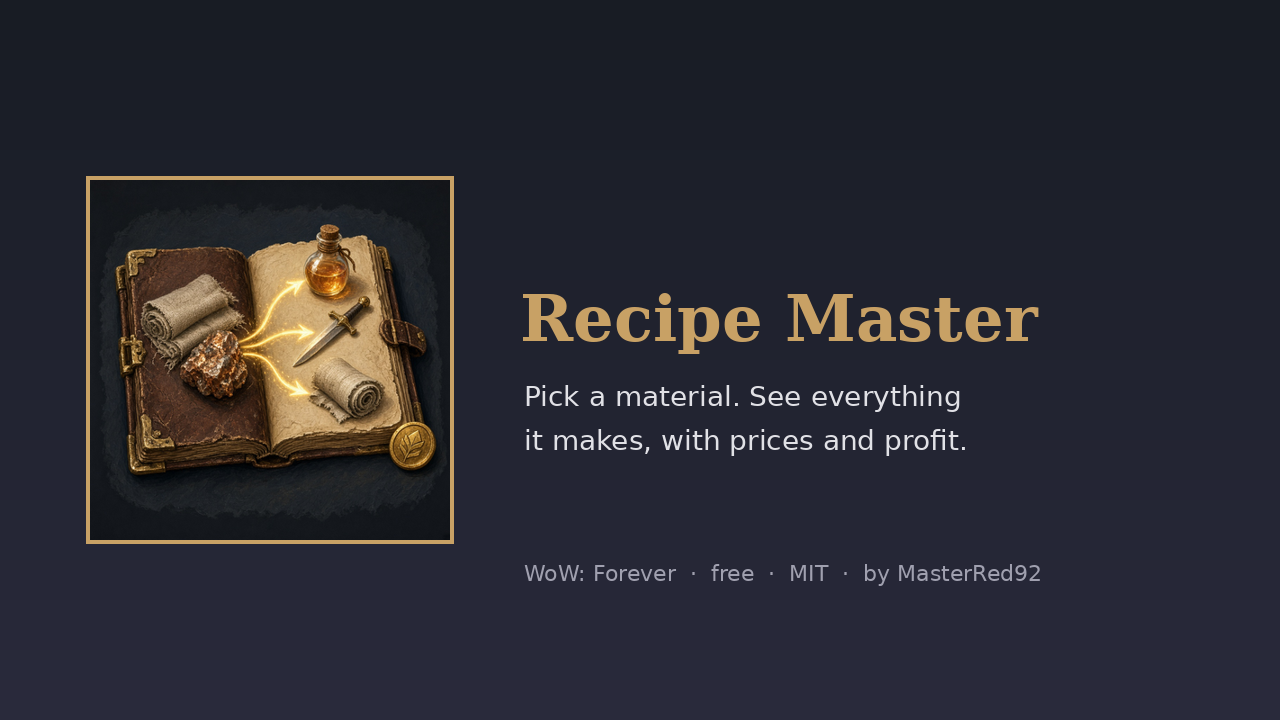
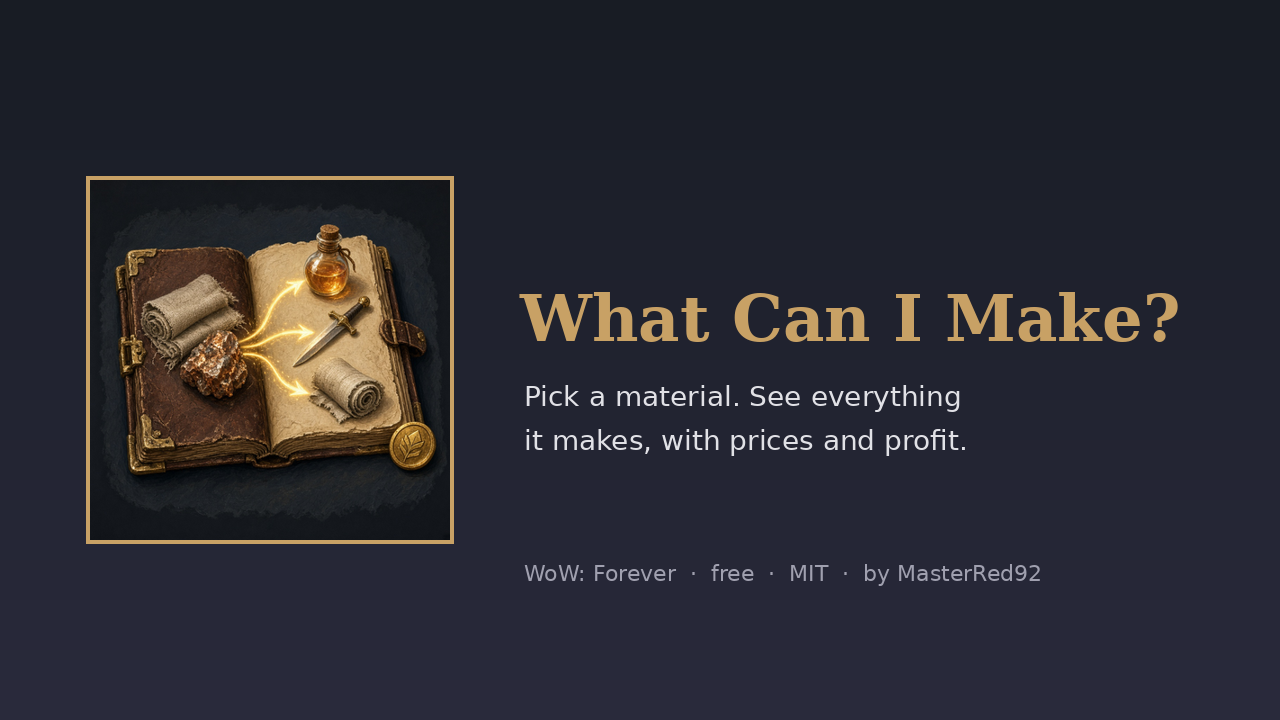
Rename to What Can I Make? (/wcim), fix the mockup

Changed region(s): [[0.4062, 0.3972, 0.9375, 0.4889]]

diff --git a/README.md b/README.md
@@ -1,23 +1,23 @@
-<p align="center"><img src="media/logo.png" alt="Recipe Master logo" width="200"></p>
+<p align="center"><img src="media/logo.png" alt="What Can I Make? logo" width="200"></p>
 
-# Recipe Master (WoW: Forever) v1.0.0
+# What Can I Make? (WoW: Forever) v1.0.0
 
-[![Tests](https://github.com/masterred92/RecipeMaster/actions/workflows/tests.yml/badge.svg)](https://github.com/masterred92/RecipeMaster/actions/workflows/tests.yml) [![WoW: Forever](https://img.shields.io/badge/WoW%3A%20Forever-Interface%2016001-c8a165)](https://github.com/masterred92/RecipeMaster/blob/main/RecipeMaster.toc) [![Release](https://img.shields.io/github/v/release/masterred92/RecipeMaster?label=release)](https://github.com/masterred92/RecipeMaster/releases) [![License: MIT](https://img.shields.io/github/license/masterred92/RecipeMaster)](https://github.com/masterred92/RecipeMaster/blob/main/LICENSE)
+[![Tests](https://github.com/masterred92/WhatCanIMake/actions/workflows/tests.yml/badge.svg)](https://github.com/masterred92/WhatCanIMake/actions/workflows/tests.yml) [![WoW: Forever](https://img.shields.io/badge/WoW%3A%20Forever-Interface%2016001-c8a165)](https://github.com/masterred92/WhatCanIMake/blob/main/WhatCanIMake.toc) [![Release](https://img.shields.io/github/v/release/masterred92/WhatCanIMake?label=release)](https://github.com/masterred92/WhatCanIMake/releases) [![License: MIT](https://img.shields.io/github/license/masterred92/WhatCanIMake)](https://github.com/masterred92/WhatCanIMake/blob/main/LICENSE)
 
-**"What can I make with this?"** Pick any material and Recipe Master shows every recipe that uses it, what each one is worth at the auction house right now, and where the result goes next.
+**"What can I make with this?"** Pick any material and What Can I Make? shows every recipe that uses it, what each one is worth at the auction house right now, and where the result goes next.
 
-- **Pick a material:** Alt-click any item (bags, chat links, loot, the AH), type `/rmaster linen cloth`, paste a link, or use the search box.
+- **Pick a material:** Alt-click any item (bags, chat links, loot, the AH), type `/wcim linen cloth`, paste a link, or use the search box.
 - **Every recipe that uses it:** profession, skill level (orange when it's above yours), the other reagents, and whether you know the recipe.
 - **Prices and profit:** the latest auction price for the material, every reagent and every crafted result, the reagent cost, and the estimated profit after the 5% AH cut. Each price says which addon it came from.
 - **Follow the chain:** click a result to see what *that* makes: Linen Cloth > Bolt of Linen Cloth > Linen Bag. Back walks the chain back. "Made from" flips to the recipes that create the item.
-- **Tooltip line:** "Recipe Master: used in N recipes", with its price and source.
+- **Tooltip line:** "Used in N recipes (What Can I Make?)", with its price and source.
 - **LDB launcher** for Titan Panel, ChocolateBar and other broker displays.
 
-<p align="center"><img src="media/screenshots/banner.png" alt="Recipe Master banner" width="560"></p>
-<p align="center"><img src="media/screenshots/mockup-guide.png" alt="Recipe Master preview" width="560"></p>
+<p align="center"><img src="media/screenshots/banner.png" alt="What Can I Make? banner" width="560"></p>
+<p align="center"><img src="media/screenshots/mockup-guide.png" alt="What Can I Make? preview" width="560"></p>
 
 ## Price sources
-Recipe Master reads prices from whichever price addon you already use. The first source in your order that has a price wins:
+What Can I Make? reads prices from whichever price addon you already use. The first source in your order that has a price wins:
 
 | Source | API used | Forever (16001) build |
 | --- | --- | --- |
@@ -25,36 +25,36 @@ Recipe Master reads prices from whichever price addon you already use. The first
 | [Auctionator](https://www.curseforge.com/wow/addons/auctionator) | `Auctionator.API.v1.GetAuctionPriceByItemID` | Yes (341, Oct 13 2026) |
 | [TradeSkillMaster](https://tradeskillmaster.com) | `TSM_API.GetCustomPriceValue("DBMarket")`, then `DBMinBuyout` | Not yet; works when it ships one |
 | [Auctioneer (Forever)](https://www.curseforge.com/wow/addons/auctioneer-forever) | `AucAdvanced.API.GetMarketValue` | Yes (4.0.0) |
-| Recipe Master scan | prices it sees in AH searches **you** do | Always on |
+| What Can I Make? scan | prices it sees in AH searches **you** do | Always on |
 
 No price addon? It still works: every AH search you make (browse or commodity) is cached. It never searches on its own.
-Change the order with `/rmaster prefer auctionator` or `/rmaster order tsm,auctionator,scan`; `/rmaster sources` shows the order and what's installed.
+Change the order with `/wcim prefer auctionator` or `/wcim order tsm,auctionator,scan`; `/wcim sources` shows the order and what's installed.
 
 ## Where the recipes come from
-Vanilla recipes (1,115 of them across Alchemy, Blacksmithing, Cooking, Enchanting items, Engineering, First Aid, Leatherworking, Mining and Tailoring) are bundled, generated by `tools/gen_data.py` from [nexus-devs/wow-classic-items](https://github.com/nexus-devs/wow-classic-items) (MIT, credit to its authors). On top of that, each time you open a profession window Recipe Master records what you know, and adds any recipe the bundled data doesn't have (new Forever recipes, enchants). It only stores names of items you could already see, so it doesn't spoil Forever's hidden items.
+Vanilla recipes (1,115 of them across Alchemy, Blacksmithing, Cooking, Enchanting items, Engineering, First Aid, Leatherworking, Mining and Tailoring) are bundled, generated by `tools/gen_data.py` from [nexus-devs/wow-classic-items](https://github.com/nexus-devs/wow-classic-items) (MIT, credit to its authors). On top of that, each time you open a profession window What Can I Make? records what you know, and adds any recipe the bundled data doesn't have (new Forever recipes, enchants). It only stores names of items you could already see, so it doesn't spoil Forever's hidden items.
 
 ## How it's different
-Reverse lookups exist ([Recipe Master by BrenoLudgero](https://www.curseforge.com/wow/addons/recipe-master), ATT, Auctionator's crafting info, TSM's crafting tab, CraftSim on retail), but they either track which recipes you're missing, price recipes you already know, or start from the recipe rather than the material. This one starts from the material, prices every option from your own AH addon, and lets you walk the chain material > intermediate > final, like the Guide in Terraria.
+Reverse lookups exist ([Recipe Master by BrenoLudgero](https://www.curseforge.com/wow/addons/recipe-master), ATT, Auctionator's crafting info, TSM's crafting tab, CraftSim on retail, Crafting Dictionary on retail), but they either track which recipes you're missing, price recipes you already know, or start from the recipe rather than the material. This one starts from the material, prices every option from your own AH addon, and lets you walk the chain material > intermediate > final, like the Guide in Terraria.
 
 ## Commands
-`/rmaster` (or `/craftguide`) open · `/rmaster <name, link or itemID>` · `sources` · `prefer <id>` · `order a,b,c` · `tooltip` · `altclick` · `report` · `help`. Source ids: `pricelog`, `auctionator`, `tsm`, `auctioneer`, `scan`.
+`/wcim` (or `/craftguide`) open · `/wcim <name, link or itemID>` · `sources` · `prefer <id>` · `order a,b,c` · `tooltip` · `altclick` · `report` · `help`. Source ids: `pricelog`, `auctionator`, `tsm`, `auctioneer`, `scan`.
 
 ## Download
 - **Wago Addons:** coming at launch (Nov 4). The link goes here when the project is live.
 - **CurseForge:** maybe later.
-- **GitHub:** [Releases](https://github.com/masterred92/RecipeMaster/releases) (from the first tagged release) · [Issues](https://github.com/masterred92/RecipeMaster/issues)
+- **GitHub:** [Releases](https://github.com/masterred92/WhatCanIMake/releases) (from the first tagged release) · [Issues](https://github.com/masterred92/WhatCanIMake/issues)
 - **More by Kenny:** [PriceLog](https://github.com/masterred92/PriceLog) · [MatTooltip](https://github.com/masterred92/MatTooltip) · [NeutralFlip](https://github.com/masterred92/NeutralFlip) · [all WoW: Forever addons](https://github.com/masterred92/wow-forever-addons)
 
 ## Install
-Put the `RecipeMaster` folder in `World of Warcraft\_forever_\Interface\AddOns\` and restart the game or `/reload`.
+Put the `WhatCanIMake` folder in `World of Warcraft\_forever_\Interface\AddOns\` and restart the game or `/reload`.
 
 ## In-game test checklist (launch day)
 1. Listed in AddOns with its icon.
-2. Hover Linen Cloth: "Recipe Master: used in N recipes". Alt-click it: the guide opens on Linen Cloth.
-3. `/rmaster copper bar` opens Copper Bar; click a result and Back returns.
+2. Hover Linen Cloth: "Used in N recipes (What Can I Make?)". Alt-click it: the guide opens on Linen Cloth.
+3. `/wcim copper bar` opens Copper Bar; click a result and Back returns.
 4. Open each profession window: your known recipes turn green and your skill shows; a Forever-only recipe appears with "from your profession window".
-5. With Auctionator installed and a scan done, prices say "(Auctionator)". Turn it off: an AH search you do shows "(Recipe Master scan)".
-6. `/rmaster prefer scan` and `/rmaster sources` show the new order; it survives `/reload`.
+5. With Auctionator installed and a scan done, prices say "(Auctionator)". Turn it off: an AH search you do shows "(What Can I Make? scan)".
+6. `/wcim prefer scan` and `/wcim sources` show the new order; it survives `/reload`.
 7. Titan Panel or another broker display shows the launcher.
 
 ## Credits

diff --git a/CHANGELOG.md b/CHANGELOG.md
@@ -1,9 +1,9 @@
 # Changelog
 
 ## 1.0.0 (first release)
-- Pick a material by Alt-click, `/rmaster <name, link or ID>` or the search box, and see every recipe that uses it: profession, skill level, other reagents, and whether you know it.
+- Pick a material by Alt-click, `/wcim <name, link or ID>` or the search box, and see every recipe that uses it: profession, skill level, other reagents, and whether you know it.
 - Latest auction price for the material, reagents and results, reagent cost and estimated profit after the AH cut, each labelled with its source.
-- Price sources: PriceLog, Auctionator, TradeSkillMaster, Auctioneer, and Recipe Master's own cache of your AH searches. Order set with `/rmaster prefer` or `/rmaster order`.
+- Price sources: PriceLog, Auctionator, TradeSkillMaster, Auctioneer, and its own cache of your AH searches. Order set with `/wcim prefer` or `/wcim order`.
 - Crafting chains: click a result to follow it, Back to return, "Made from" for the recipes that create an item.
 - 1,115 bundled vanilla recipes (nexus-devs/wow-classic-items, MIT) plus recipes recorded from your own profession windows.
 - Tooltip line "used in N recipes" and an LDB launcher. Game version: WoW: Forever 1.60.1 (Interface 16001).
